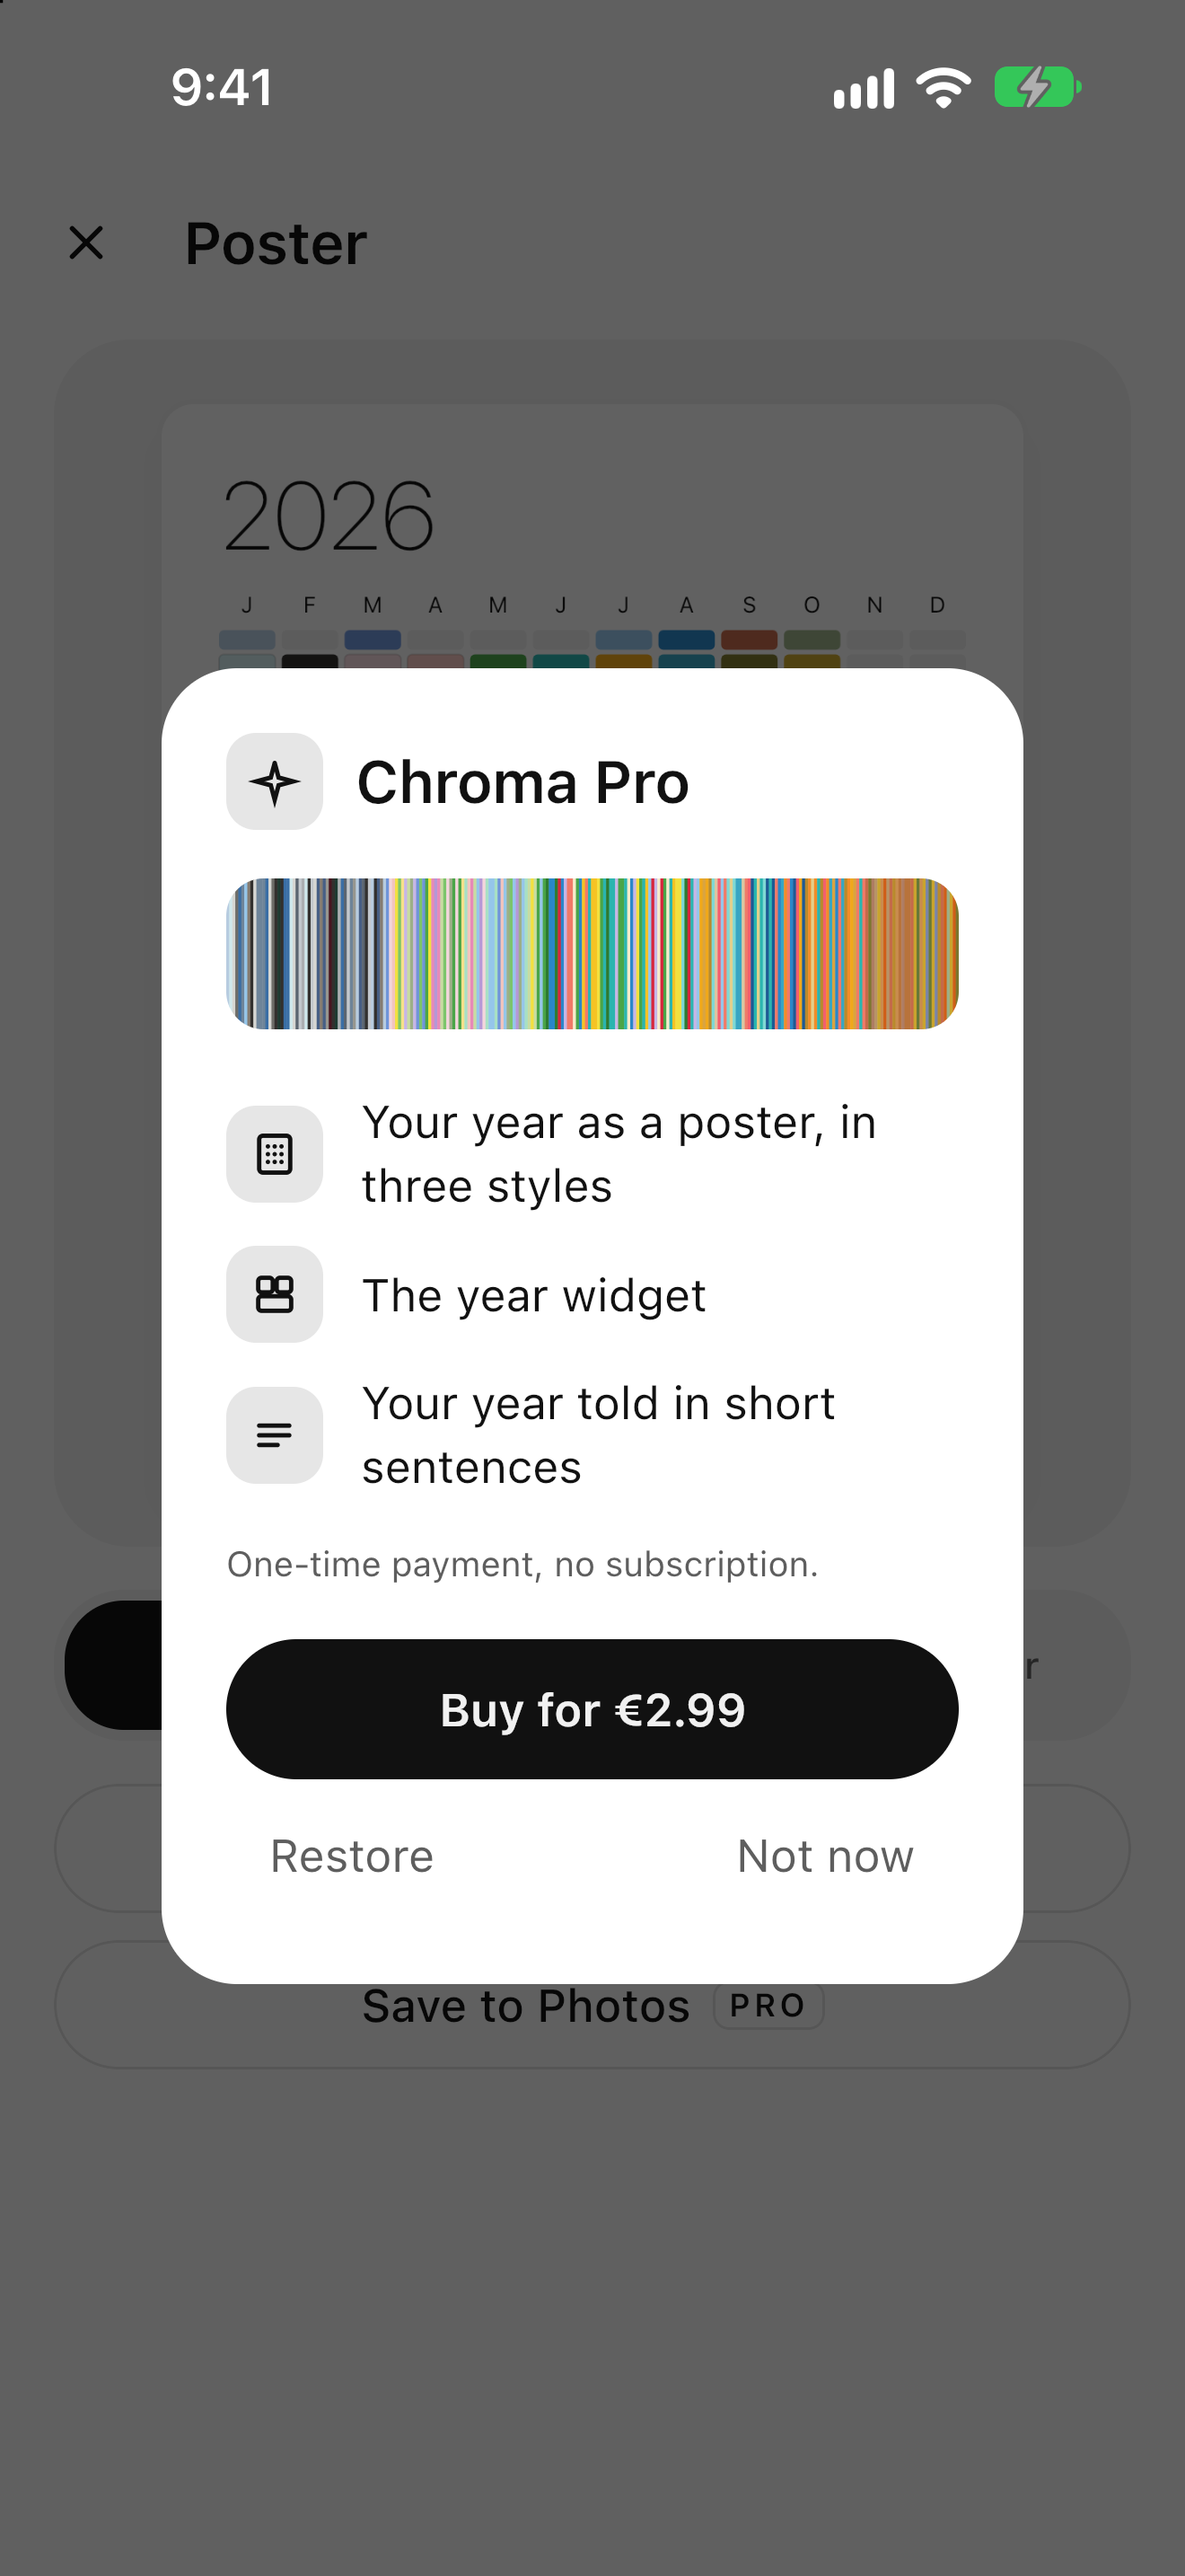
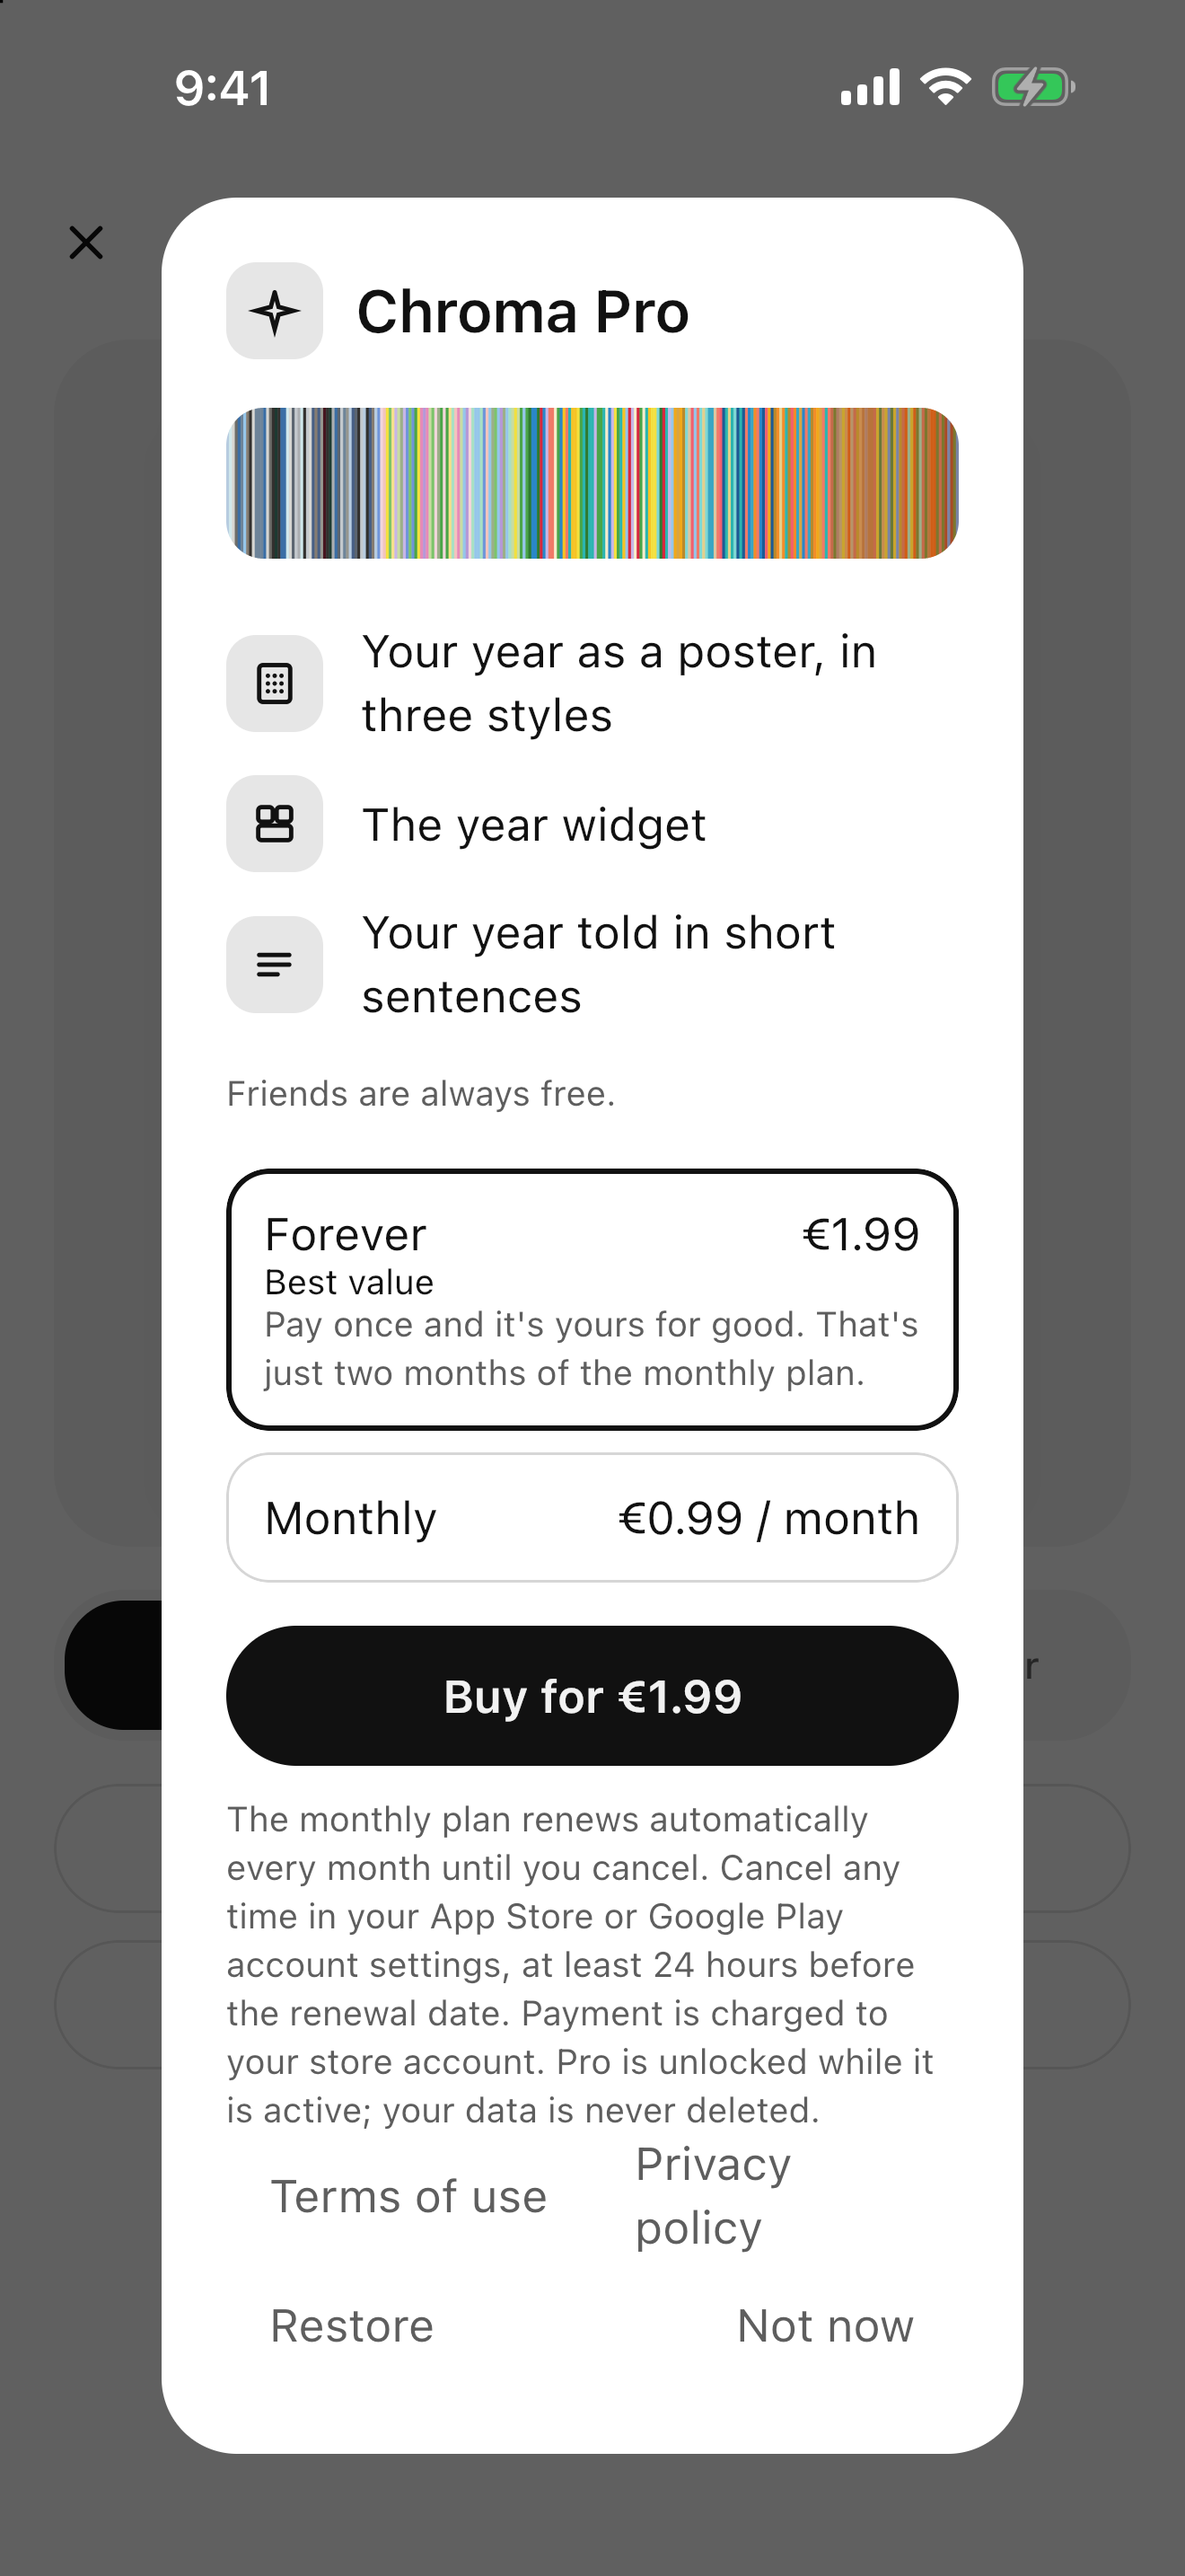
store: App Store de la 1.1 preparado para enviar
Version 1.1 creada con su build, edad con contenido de usuarios y red social, notas al revisor
con Amigos y captura nueva de la compra, sin la cual la suscripcion mensual no se puede enviar.
Lo que queda son clics de envio y la cuenta de prueba, que son del titular.

Refs #38

diff --git a/store/formularios.md b/store/formularios.md
@@ -341,6 +341,31 @@ Estado el 19-10-2026, con Amigos ya en `main`:
   publican al momento y Apple pide que reflejen la versión que está a la venta, que hoy no tiene Amigos.
   La clasificación por edad y las notas al revisor van también con esa versión.
 
+Estado el 19-10-2026 por la noche, con la 1.1 (18) subida a Play alpha y TestFlight (`v1.1`):
+
+- App Store, versión 1.1 creada por la API (`AFTER_APPROVAL`), con la build 18, las novedades de
+  `store/whatsnew`, la ficha nueva de los trece idiomas (`appstore.py ficha`) y el vídeo de la 1.0 como
+  adjunto de la revisión.
+- App Store, edad (por la API, en la ficha de la 1.1): contenido generado por usuarios **sí**, red social
+  **sí** (Amigos es un feed de lo que comparten otros; Apple lo pide desde septiembre de 2026 y da 13+),
+  restringida por edad **no** (eso exige la API de rango de edad declarado), mensajería **no**. El resto,
+  como en 6.
+- App Store, notas al revisor: las de 6 reescritas para la 1.1 (Amigos, cuenta de prueba, reportar,
+  bloquear, borrar la cuenta, Supabase y Resend como servicios), 3918 caracteres, en la ficha de la 1.1.
+  Falta la cuenta de prueba en *Información de inicio de sesión*.
+- App Store, suscripción `pro_monthly`: tenía `MISSING_METADATA` por la captura para la revisión. Nueva
+  `revision-compra.png` (el diálogo de la 1.1 con vitalicio y mensual, precios puestos a mano solo en esa
+  build) subida el 19-10-2026; en la web queda *En preparación para el envío*. Es la primera suscripción:
+  va en el mismo envío que la 1.1 (*Añadir a revisión* en la suscripción, del titular).
+- App Store, *Privacidad de la app*: *Tipos de datos > Editar > Siguiente*, marcar Nombre, Correo
+  electrónico, Fotos o vídeos, Otro contenido del usuario e ID de usuario, además de Compras. Ese diálogo
+  solo tiene *Publicar*, que es del titular (se marcaron, pero la pestaña se cerró sin publicar). Después, cada tipo nuevo pide su configuración: finalidad
+  **Funcionalidad de la app**, **vinculado** a la identidad, **sin** rastreo. Compras sigue como estaba.
+- Play, IARC: las respuestas de arriba se perdieron al reutilizar la pestaña del navegador sin guardar;
+  hay que volver a rellenarlo (respuestas arriba) y pulsar *Guardar*, *Siguiente* y *Enviar*.
+- Play, ficha (`store/listings`): actualizada en el repositorio, sin subir. Sale a Play con la 1.1 a
+  producción, no antes: la ficha de producción describe la 1.0.14, que no tiene Amigos.
+
 Apple 1.2 pide los cuatro a la vez: términos aceptados, filtro o reporte de contenido, bloquear, y
 actuar en 24 horas. Los reportes llegan por correo (`report-notify`, `store/servidor.md` 3), lanzado desde
 la base y reintentado cada hora hasta que sale, y cómo actuar sobre uno está en `store/servidor.md` 7.
